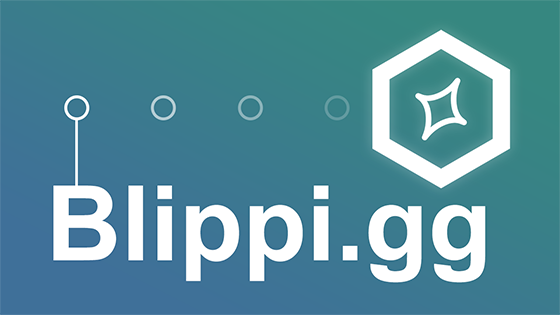
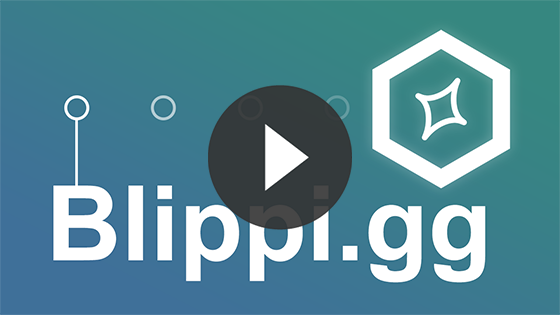
Added new Blippi.gg how-to video.

Changed region(s): [[0.3643, 0.2571, 0.6375, 0.7429]]

diff --git a/index.html b/index.html
@@ -57,14 +57,14 @@
 						<h1>Blippi.gg</h1>
 						<p>The Super Smash Bros. Melee. hub for playing, learning, and creating.</p>
 						<div class="box alt">
-						<!-- <div style="max-width: 560px;">
+						<div style="max-width: 560px;">
 						<div class="video-responsive vid-container vid-cover">
 							<span class="placeholder">
 								<span class="prompt videoplay1 image"><img src="images/blippi-video.png">
 								</span>
 							  </span>
-							<iframe id="video1" class="image" width="560" height="315" src="https://www.youtube.com/embed/fQMdyLNeves" frameborder="0" allowfullscreen></iframe></div></div>
-						</div> -->
+							<iframe id="video1" class="image" width="560" height="315" src="https://www.youtube.com/embed/0KSdrvfraBQ" frameborder="0" allowfullscreen></iframe></div></div>
+						</div>
 						<ul class="actions">
 							<li><a href="#started" class="button scrolly">Get Started</a></li>
 						</ul>
@@ -447,7 +447,7 @@
 		<script src="assets/js/util.js"></script>
 		<script src="assets/js/main.js"></script>
 
-		   <!-- Image cover iframe jQuery
+		   Image cover iframe jQuery
 		   <script>
 			(function($) {
 			  $('.placeholder').click(function() {
@@ -459,7 +459,7 @@
 			$('.videoplay1').on('click', function() {
 			$("#video1")[0].src += "?autoplay=1";
 			});
-		  </script> -->
+		  </script>
 
 	</body>
 </html>
